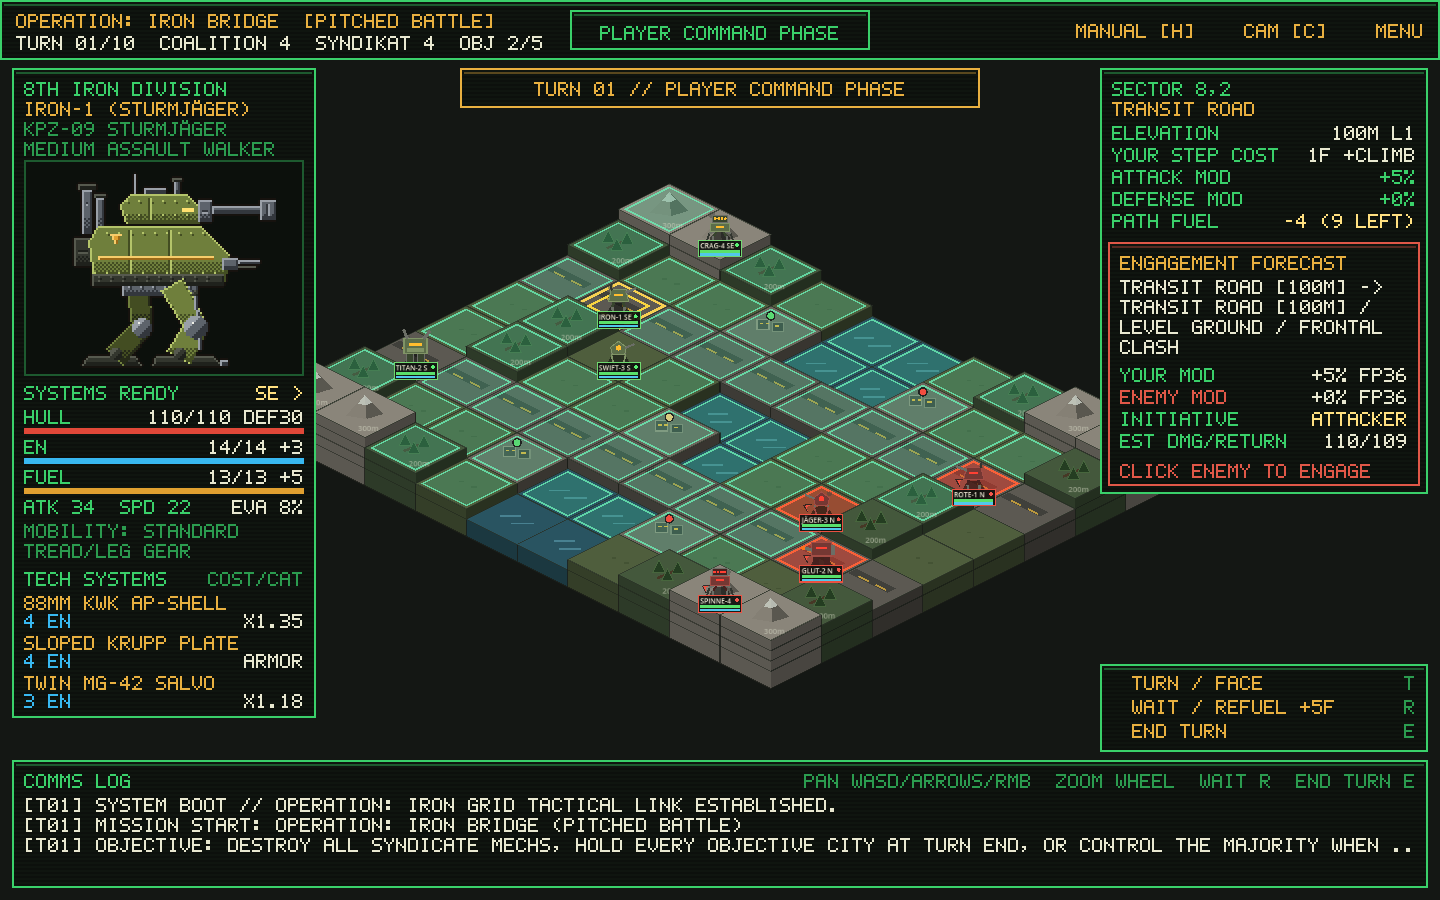
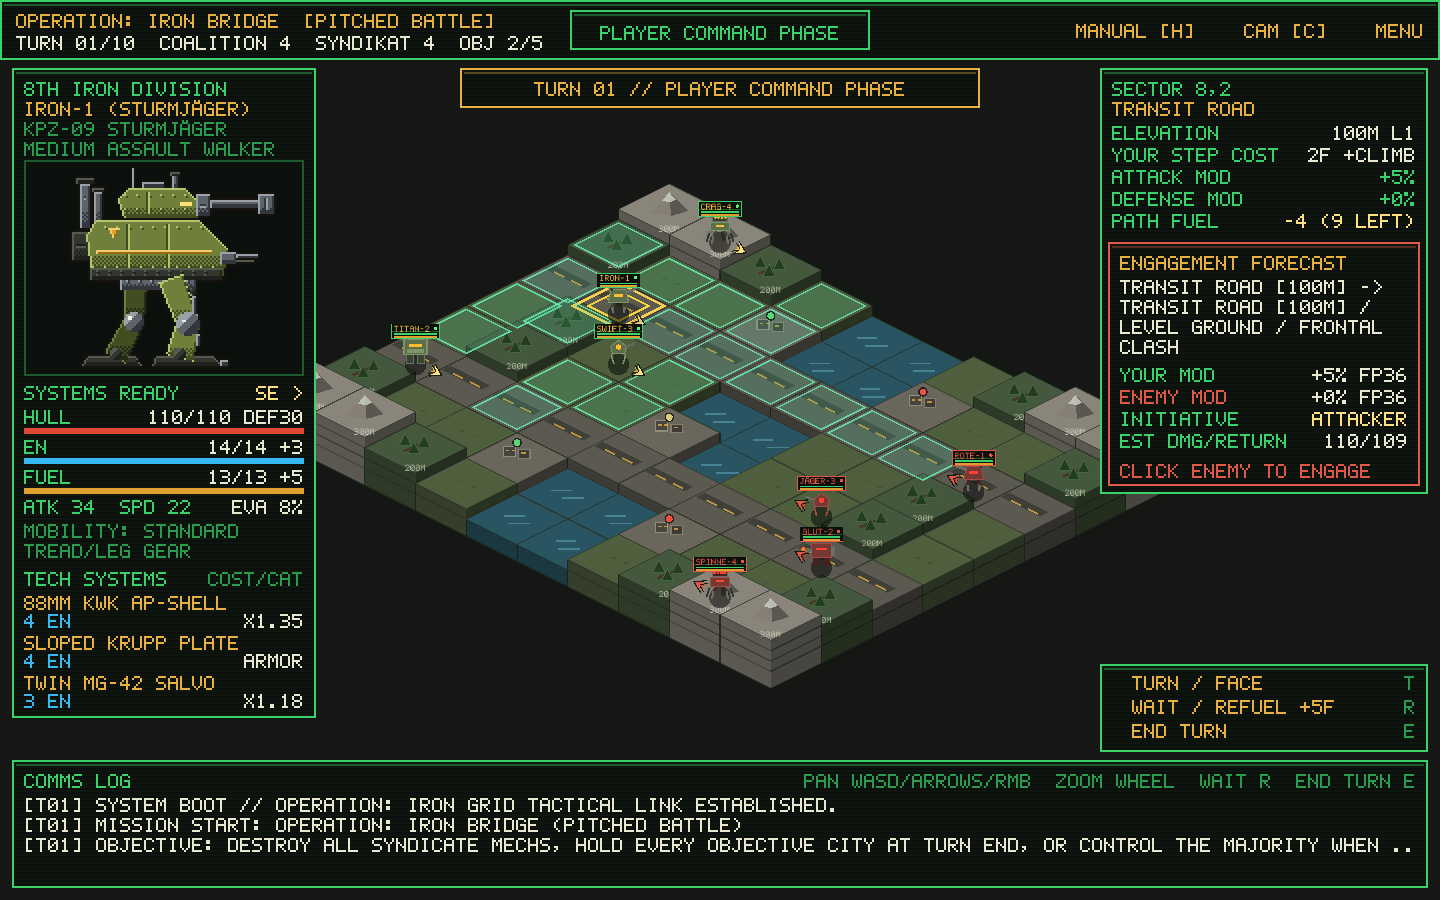
docs: refresh screenshots at 1440x900 and synchronize README for v0.4.0-alpha.1

Changed region(s): [[0.2188, 0.28, 0.75, 0.6844], [0.0312, 0.1867, 0.1875, 0.4044], [0.4375, 0.2178, 0.5625, 0.3422]]

diff --git a/README.md b/README.md
@@ -4,11 +4,11 @@
 
 ![Isometric Battlefield & Tactical HUD](screenshot_gameplay.png)
 
-*Tactical battlefield view: extruded 2.5D isometric terrain, movement range highlights, Dijkstra fuel path planning, and real-time telemetry HUD.*
+*Tactical battlefield view: extruded 2.5D isometric terrain, tactical echelon double chevrons, overhead CRT telemetry tags, movement range highlights, Dijkstra fuel path planning, and real-time telemetry HUD.*
 
 ![FF-style Battle Screen](screenshot_battle.png)
 
-*Battle screen: pixel-art walkers with articulated legs, a terrain backdrop chosen by the defender's tile, attack banners, and the CRT command HUD.*
+*Battle screen: pixel-art walkers with articulated legs, a terrain backdrop chosen by the defender's tile, and the CRT interactive command HUD.*
 
 ![Main Menu & AFW Codex](screenshot_main_menu.png)
 
@@ -16,7 +16,7 @@
 
 ![Rules of Engagement](screenshot_rules.png)
 
-*Rules of Engagement (press `R` in Command HQ): seven chapters on how the battle works, with every number read from the game's data.*
+*Rules of Engagement (press `R` in Command HQ): seven chapters on how the battle works, with every number read live from the game's data.*
 
 ---
 
@@ -29,7 +29,7 @@ Each turn cycles through three phases:
 1. **Player Command Phase**:
    - Select any friendly Armored Fighting Walker (AFW) to compute reachable movement nodes within its current **Diesel Fuel** budget (using Dijkstra pathfinding across terrain and elevation climbs). Walkers can move across unoccupied nodes, and moving does not forfeit attacking if sufficient fuel remains for the strike.
    - **Combat Selection**: Hover over reachable adjacent enemy nodes (highlighted with red targeting reticles) to inspect a real-time **Skirmish Engagement Forecast** detailing approach vectors (`FRONTAL CLASH`, `FLANKING ATTACK`, `REAR AMBUSH`), tactical formation modifiers, terrain/elevation modifiers, initiative order, and estimated hull damage.
-   - **Attacking Pays Target Step Fuel but Holds Ground**: A strike is launched from the walker's adjacent tile onto the enemy-held node, paying that target node's step fuel: base terrain cost, chassis off-road surcharge or gear discount, and elevation climb. A Goliath striking a mountain one level up pays `5 + 1 + 1 = 7` of its `10` fuel. **Attacking never moves your walker onto the defender's node; both walkers hold their respective tiles during and after combat.** If the defender is destroyed, the sector is cleared and can be occupied on subsequent turns or moves.
+   - **Attacking Pays Target Step Fuel but Holds Ground**: A strike is launched from the walker's adjacent tile onto the enemy-held node, paying that target node's step fuel: base terrain cost multiplied by chassis fuel usage (`fuel_usage = 2`), chassis off-road surcharge or gear discount, and elevation climb (`+2 Fuel` per level). Base mountain crag requires `10 Fuel` (5 × 2); attempting to climb an elevated mountain one level up costs `10 + 2 + 2 = 14 Fuel`, which exceeds a Goliath's 10-fuel tank (`ADV_IMPOSSIBLE: CAN'T CLIMB THERE`) and requires level ground or lighter walkers. **Attacking never moves your walker onto the defender's node; both walkers hold their respective tiles during and after combat.** If the defender is destroyed, the sector is cleared and can be occupied on subsequent turns or moves.
    - **Out of Reach Telemetry**: When a selected walker could reach a tile next to an enemy this turn but lacks the fuel for the final attack step, hovering that enemy displays an **OUT OF REACH** box with the fuel needed, the exact formula breakdown, and turn-checked refuel advice (wait here, advance to an intermediate tile, or refuel over turns). Clicking it logs the tactical assessment to the Comms Log. Enemies beyond move range show a subtle `BEYOND MOVE RANGE` line.
    - **Facing, Entrenching & Objectives**: Move to secure strategic **Objective Cities**, press **`T`** to cycle cardinal facing direction without burning fuel, or press **`R`** (`WAIT / REFUEL`) to entrench (`+15% DEF`, `+5 Fuel`, `+4 EN`, and `+8 Hull` repair when holding a City).
 2. **Combat Encounter Phase (Final Fantasy Turn-Based Battle)**:
@@ -60,7 +60,7 @@ Directional orientation, approach vectors, and surrounding unit formations heavi
 ### Directional Facing & In-Place Turning
 Every walker maintains a cardinal facing orientation on the isometric grid:
 - **Four Cardinal Facings**: `SE` (`1, 0` / `>`), `SW` (`0, 1` / `v`), `NW` (`-1, 0` / `<`), and `NE` (`0, -1` / `^`).
-- **Telemetry & Visuals**: Walker bases feature an articulated directional chevron; the CRT HUD displays the orientation arrow next to the unit's portrait (`SE >`, `SW v`, `NW <`, `NE ^`), and sprite poses flip horizontally according to facing.
+- **Telemetry & Visuals**: Walker bases feature a prominent **tactical echelon double chevron** along the forward perimeter edge of their tile diamond (`C_CURSOR`/`C_NAME` amber for player, `C_HOSTILE` red for AI); walker heads feature floating **overhead CRT telemetry tags** in `PixelFont` showing callsign, status ready pip, and stacked Hull/Fuel micro-gauges. The CRT sidebar HUD displays the orientation arrow next to the unit's portrait (`SE >`, `SW v`, `NW <`, `NE ^`), and sprite poses flip horizontally according to facing.
 - **Dynamic Orientation**: Moving automatically points the walker along its final step vector (`target_coords - from_coords`). Initiating an attack automatically rotates the attacker to face the defender (`def_coords - atk_coords`).
 - **Manual Turning (`T` / CRT HUD)**: Pressing **`T`** (`TURN / FACE`) or clicking the CRT command row cycles the selected walker's facing clockwise without expending fuel or ending its turn.
 - **Post-Move Refacing**: After completing a move, clicking an adjacent empty orthogonal tile refaces the walker in that direction.
@@ -87,17 +87,19 @@ Units stationed on adjacent nodes project tactical support and suppression into 
 
 ## Terrain & Elevation Matrix
 
-| Terrain Type | Code | Base Fuel | Attack Mod | Defense Mod | Evasion Bonus | Tactical Notes |
-| :--- | :---: | :---: | :---: | :---: | :---: | :--- |
-| **Transit Road** | `ROD` | `1` | `+5%` | `0%` | `+0%` | Fastest transit artery for heavy dreadnoughts |
-| **Open Plain** | `PLN` | `2` | `0%` | `+5%` | `+0%` | Standard open maneuvering ground |
-| **Fortified City** | `CTY` | `2` | `+10%` | `+25%` | `+10%` | Repairs **+12 Hull**, restores **+4 Fuel** & **+3 EN** at turn start |
-| **Trench Timber** | `TRN` | `3` | `+5%` | `+15%` | `+8%` | Prepared defensive cover and ambush concealment |
-| **River Ford** | `RIV` | `4` | `-15%` | `-15%` | `-10%` | Bogged down & exposed (`Falke` amphibious gear reduces cost) |
-| **Mountain Crag** | `MTN` | `5` | `+15%` | `+30%` | `+10%` | Commanding rock bastion (`Donner` quad legs reduce climb cost) |
+Base terrain fuel costs are multiplied by each chassis's fuel usage (`fuel_usage = 2` for standard medium/heavy walkers):
+
+| Terrain Type | Code | Base Fuel | Effective Fuel (2×) | Attack Mod | Defense Mod | Evasion Bonus | Tactical Notes |
+| :--- | :---: | :---: | :---: | :---: | :---: | :---: | :--- |
+| **Transit Road** | `ROD` | `1` | `2` | `+5%` | `0%` | `+0%` | Fastest transit artery for heavy dreadnoughts |
+| **Open Plain** | `PLN` | `2` | `4` | `0%` | `+5%` | `+0%` | Standard open maneuvering ground |
+| **Fortified City** | `CTY` | `2` | `4` | `+10%` | `+25%` | `+10%` | Repairs **+12 Hull**, restores **+4 Fuel** & **+3 EN** at turn start |
+| **Trench Timber** | `TRN` | `3` | `6` | `+5%` | `+15%` | `+8%` | Prepared defensive cover and ambush concealment |
+| **River Ford** | `RIV` | `4` | `8` | `-15%` | `-15%` | `-10%` | Bogged down & exposed (`Falke` amphibious gear reduces cost) |
+| **Mountain Crag** | `MTN` | `5` | `10` | `+15%` | `+30%` | `+10%` | Commanding rock bastion (`Donner` quad legs reduce climb cost) |
 
 ### Elevation (`0m` – `400m`)
-- **Climbing Fuel Surcharge**: Moving uphill costs `+1 Fuel` per `100m` elevation level gained, and that includes the final step of an attack onto a higher enemy.
+- **Climbing Fuel Surcharge**: Moving uphill costs `+1 Base Fuel` (`+2 Effective Fuel` at 2× fuel usage) per `100m` elevation level gained, and that includes the final step of an attack onto a higher enemy.
 - **High Ground Plunging Fire**: Whichever walker holds the higher tile gains **+4% Hit Accuracy**, **+4% Evasion** and **+5% Crit** per elevation level. Attacking downhill also grants **+12% Firepower** and **+10% Armor deflection** per level, while the defender below loses **8% Firepower and Armor** per level.
 - **Uphill Assault Penalty**: Attacking uphill suffers **-10% Firepower** and **-4% Hit Accuracy** per level, and the defender above gains **+12% Firepower and Armor** per level.
 
@@ -179,7 +181,9 @@ iron-grid/
 │   ├── backdrops/                  # 360x152 terrain backdrops (plain, road, river, forest, city, mountain)
 │   ├── fx/                         # Slab, radio mast & rangefinder attachments per faction
 │   └── font/                       # 5x7 bitmap font
-├── tools/battle_sprites/           # Stdlib-only Python generator for everything in assets/battle
+├── tools/
+│   ├── battle_sprites/             # Stdlib-only Python generator for everything in assets/battle
+│   └── ui_snapshot/                # snapshot.gd: renders 1440x900 screenshots of any scene/state
 ├── scenes/
 │   ├── MainMenu.tscn               # Command HQ briefing console, 3-map selector, Mech Hangar Codex & Rules of Engagement
 │   ├── Battlefield.tscn            # Root battle scene (GridMap, UnitContainer, Camera2D, UIOverlay)
@@ -210,6 +214,8 @@ iron-grid/
     │   ├── PixelFont.gd            # 5x7 bitmap text & wrapping
     │   └── BattlePreview.gd        # Dev preview controller
     └── ui/
+        ├── CrtUI.gd                # Scanline CRT UI design system, integer pixel scaling, PixelFont & panels
+        ├── CrtHotspots.gd          # Mouse hover and hit-testing manager for CRT virtual coordinates
         ├── MainMenu.gd             # War-room menu, interactive Mech Hangar Codex & Rules of Engagement page
         ├── RulesContent.gd         # Rules of Engagement chapter text, built from live game data
         └── UIOverlay.gd            # In-game CRT telemetry HUD, terrain inspector, forecast & OUT OF REACH box
@@ -217,7 +223,9 @@ iron-grid/
     ├── Playtest.tscn               # Headless automated playtest entry scene
     ├── playtest.gd                 # Rule checks + full-mission playthroughs with per-frame invariants
     ├── BattleScreenTests.tscn      # Battle screen, strike plan & rules page unit tests
-    └── run_battle_tests.sh         # Headless runner for those tests (fails on any SCRIPT ERROR too)
+    ├── run_battle_tests.sh         # Headless runner for those tests (fails on any SCRIPT ERROR too)
+    ├── Benchmark.tscn             # Hardware render frame time budget benchmark suite
+    └── benchmark.gd               # Benchmark measuring P50/P95/max frame times against 16.6ms budget
 ```
 
 ---
@@ -251,6 +259,35 @@ Every battle in a playtest or balance mission is seeded from the mission's polic
 # Windows PowerShell equivalent of the environment-variable form
 $env:PLAYTEST_POLICIES = 'greedy'; $env:PLAYTEST_VERBOSE = '1'; godot --headless --path . res://tests/Playtest.tscn
 Remove-Item Env:PLAYTEST_POLICIES, Env:PLAYTEST_VERBOSE
+```
+
+## Hardware Frame Time Budget Benchmark
+
+`tests/Benchmark.tscn` validates that the game strictly complies with the **60 FPS / 16.666 ms frame time budget** across both rendering pipelines (2.5D Isometric Map View and 2D Battle View). It executes a two-pass benchmark:
+1. **Pass 1 (Raw Workload / Capacity)**: Uncapped rendering measuring raw GPU/CPU frame times, P50/P95 latency, and budget headroom.
+2. **Pass 2 (Capped Target)**: Standard 60 FPS capped loop (`run/max_fps=60`) measuring pacing stability and frame delta consistency.
+
+```bash
+godot res://tests/Benchmark.tscn
+```
+
+### Confirmed Performance Metrics (NVIDIA Quadro P4000, GL Compatibility)
+- **2.5D Isometric Map View (`Battlefield.tscn`)**:
+  - Raw Average Frame Time: **6.38 ms** (~156.8 FPS max capacity, **38.3% budget consumed**, **+10.29 ms headroom**).
+  - 60 FPS Locked: Average delta **16.66 ms** (rock-solid 60.0 FPS).
+- **2D Battle View (`BattleScreen.gd`)**:
+  - Raw Average Frame Time: **0.68 ms** (~1,475 FPS max capacity, **4.1% budget consumed**, **+15.99 ms headroom**).
+  - 60 FPS Locked: Average delta **16.67 ms** (rock-solid 60.0 FPS).
+
+## Screenshot Generation Pipeline
+
+All documentation screenshots in the repository root are rendered deterministically using `tools/ui_snapshot/snapshot.gd` at native $1440 \times 900$:
+
+```powershell
+godot --path . -s tools/ui_snapshot/snapshot.gd -- res://scenes/Battlefield.tscn screenshot_gameplay.png select
+godot --path . -s tools/ui_snapshot/snapshot.gd -- res://scenes/MainMenu.tscn screenshot_main_menu.png
+godot --path . -s tools/ui_snapshot/snapshot.gd -- res://scenes/MainMenu.tscn screenshot_rules.png rules
+godot --path . -s tools/ui_snapshot/snapshot.gd -- res://scenes/dev/BattlePreview.tscn screenshot_battle.png
 ```
 
 ## Battle Art Pipeline
